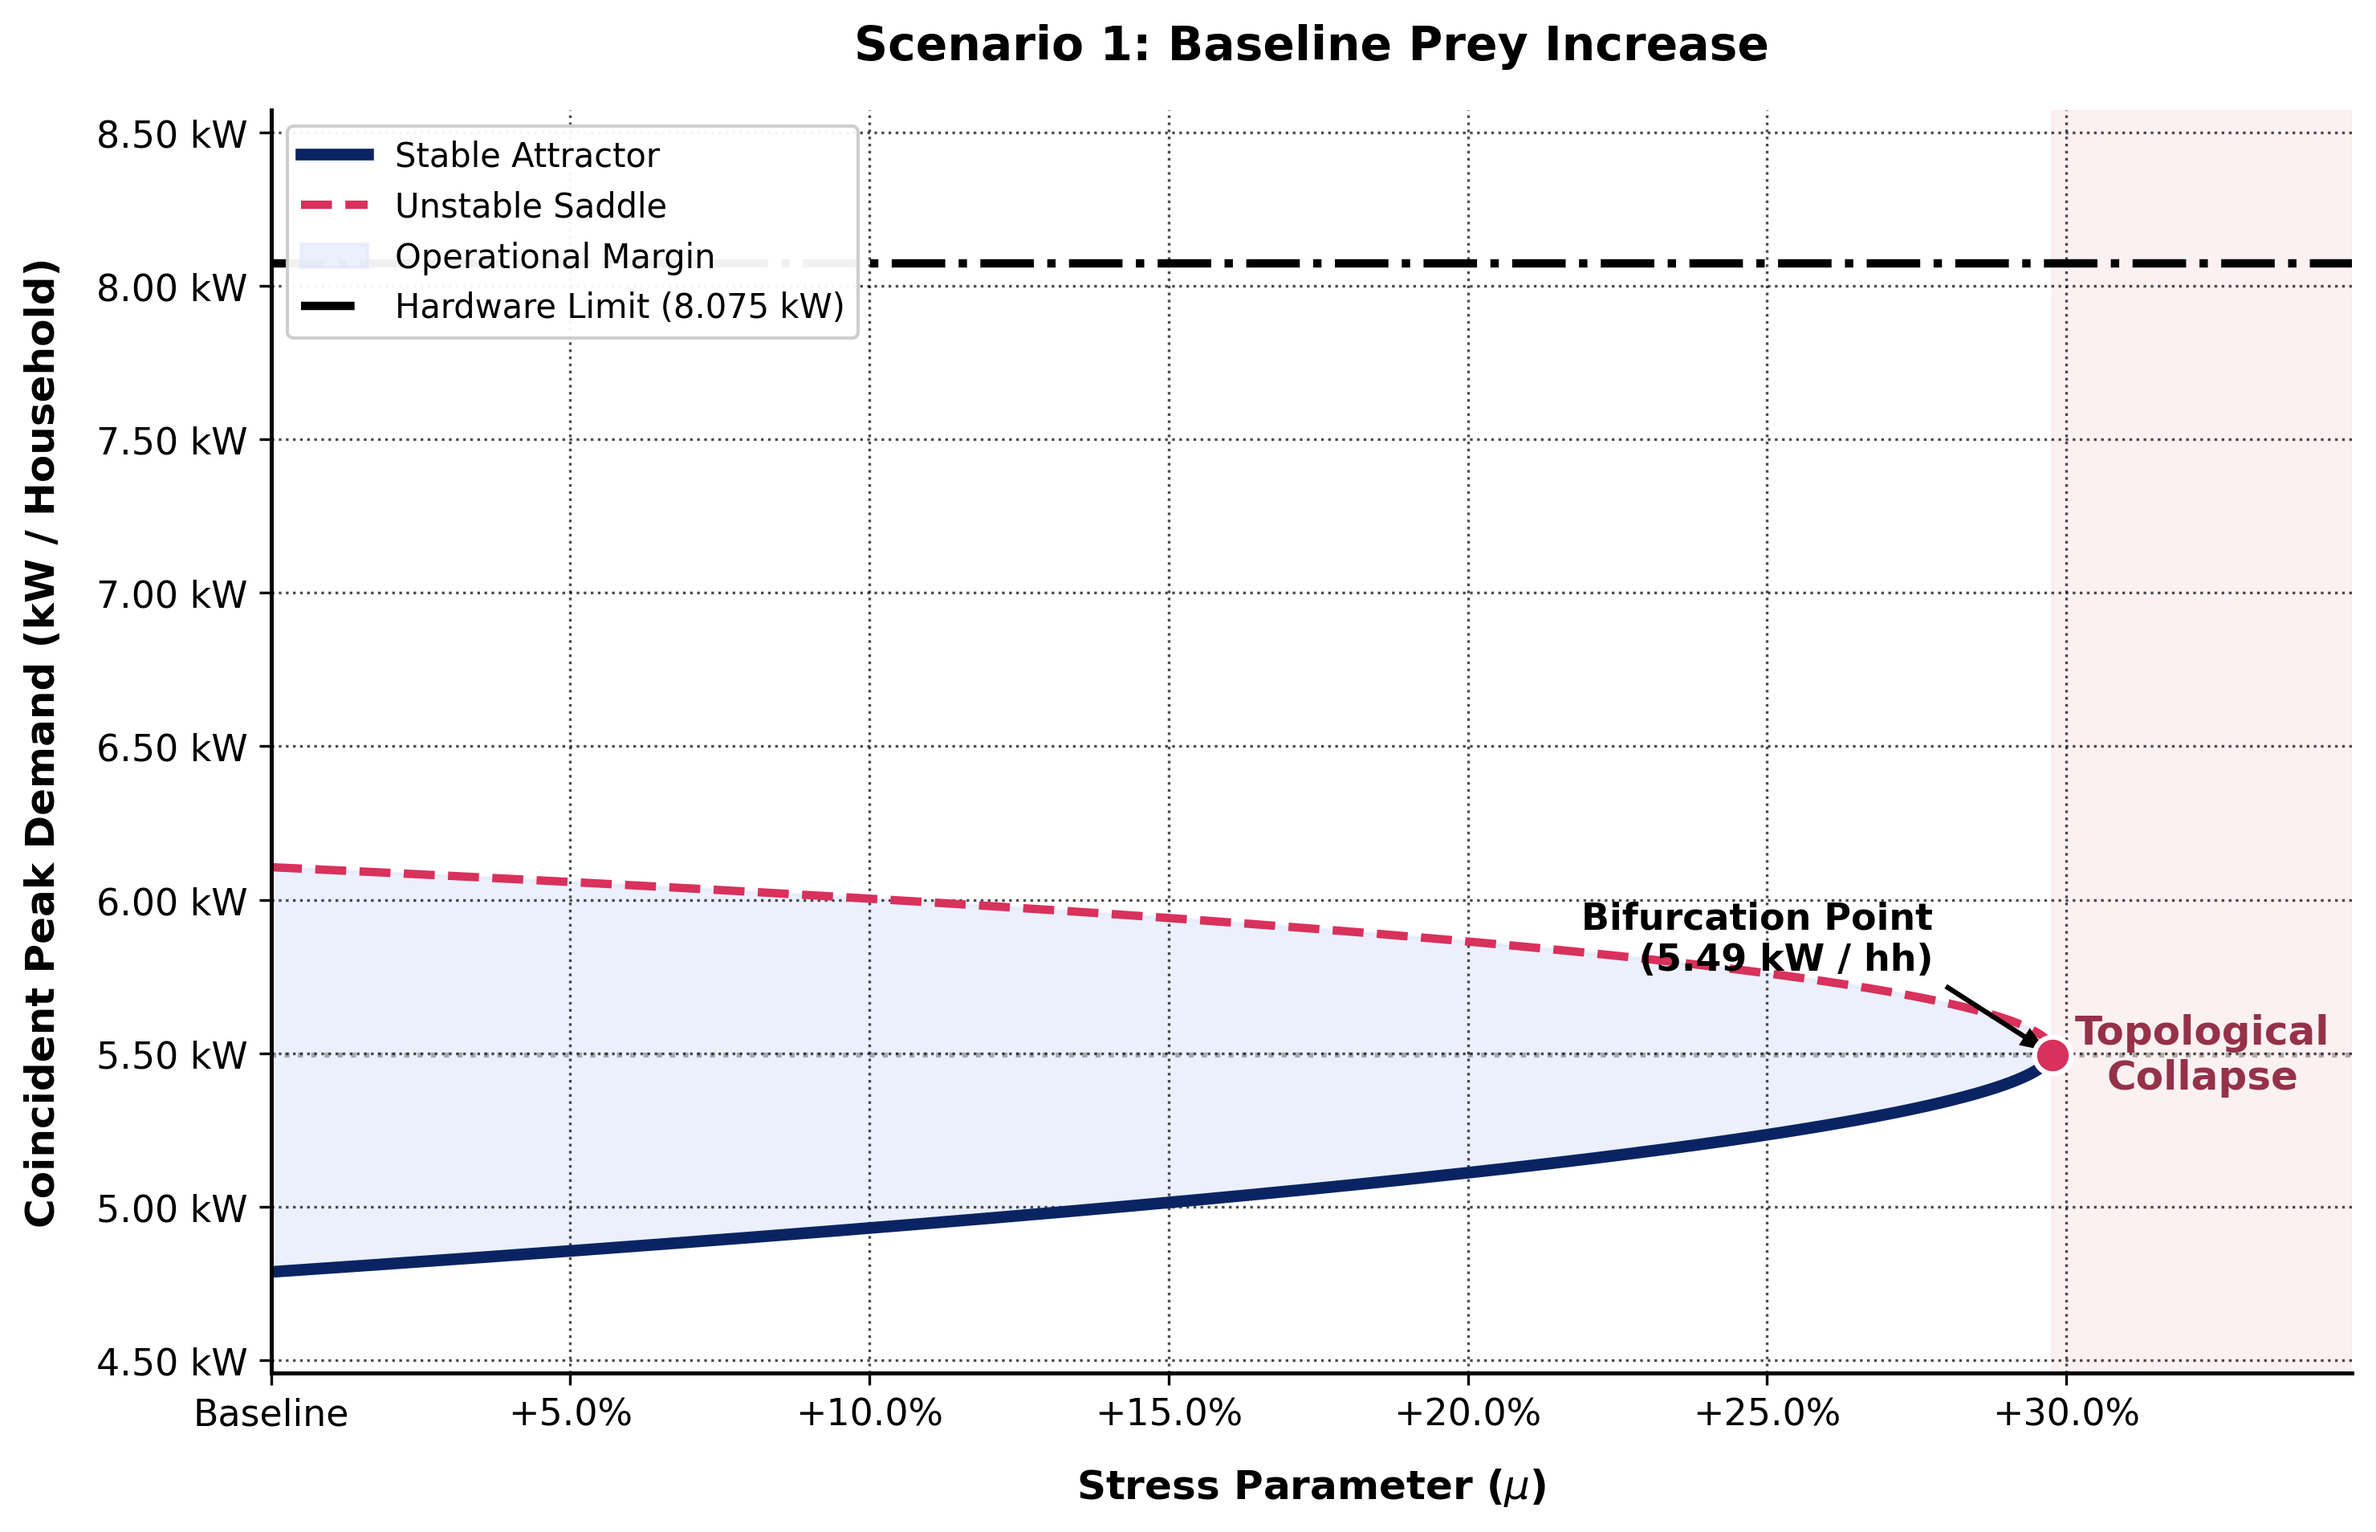
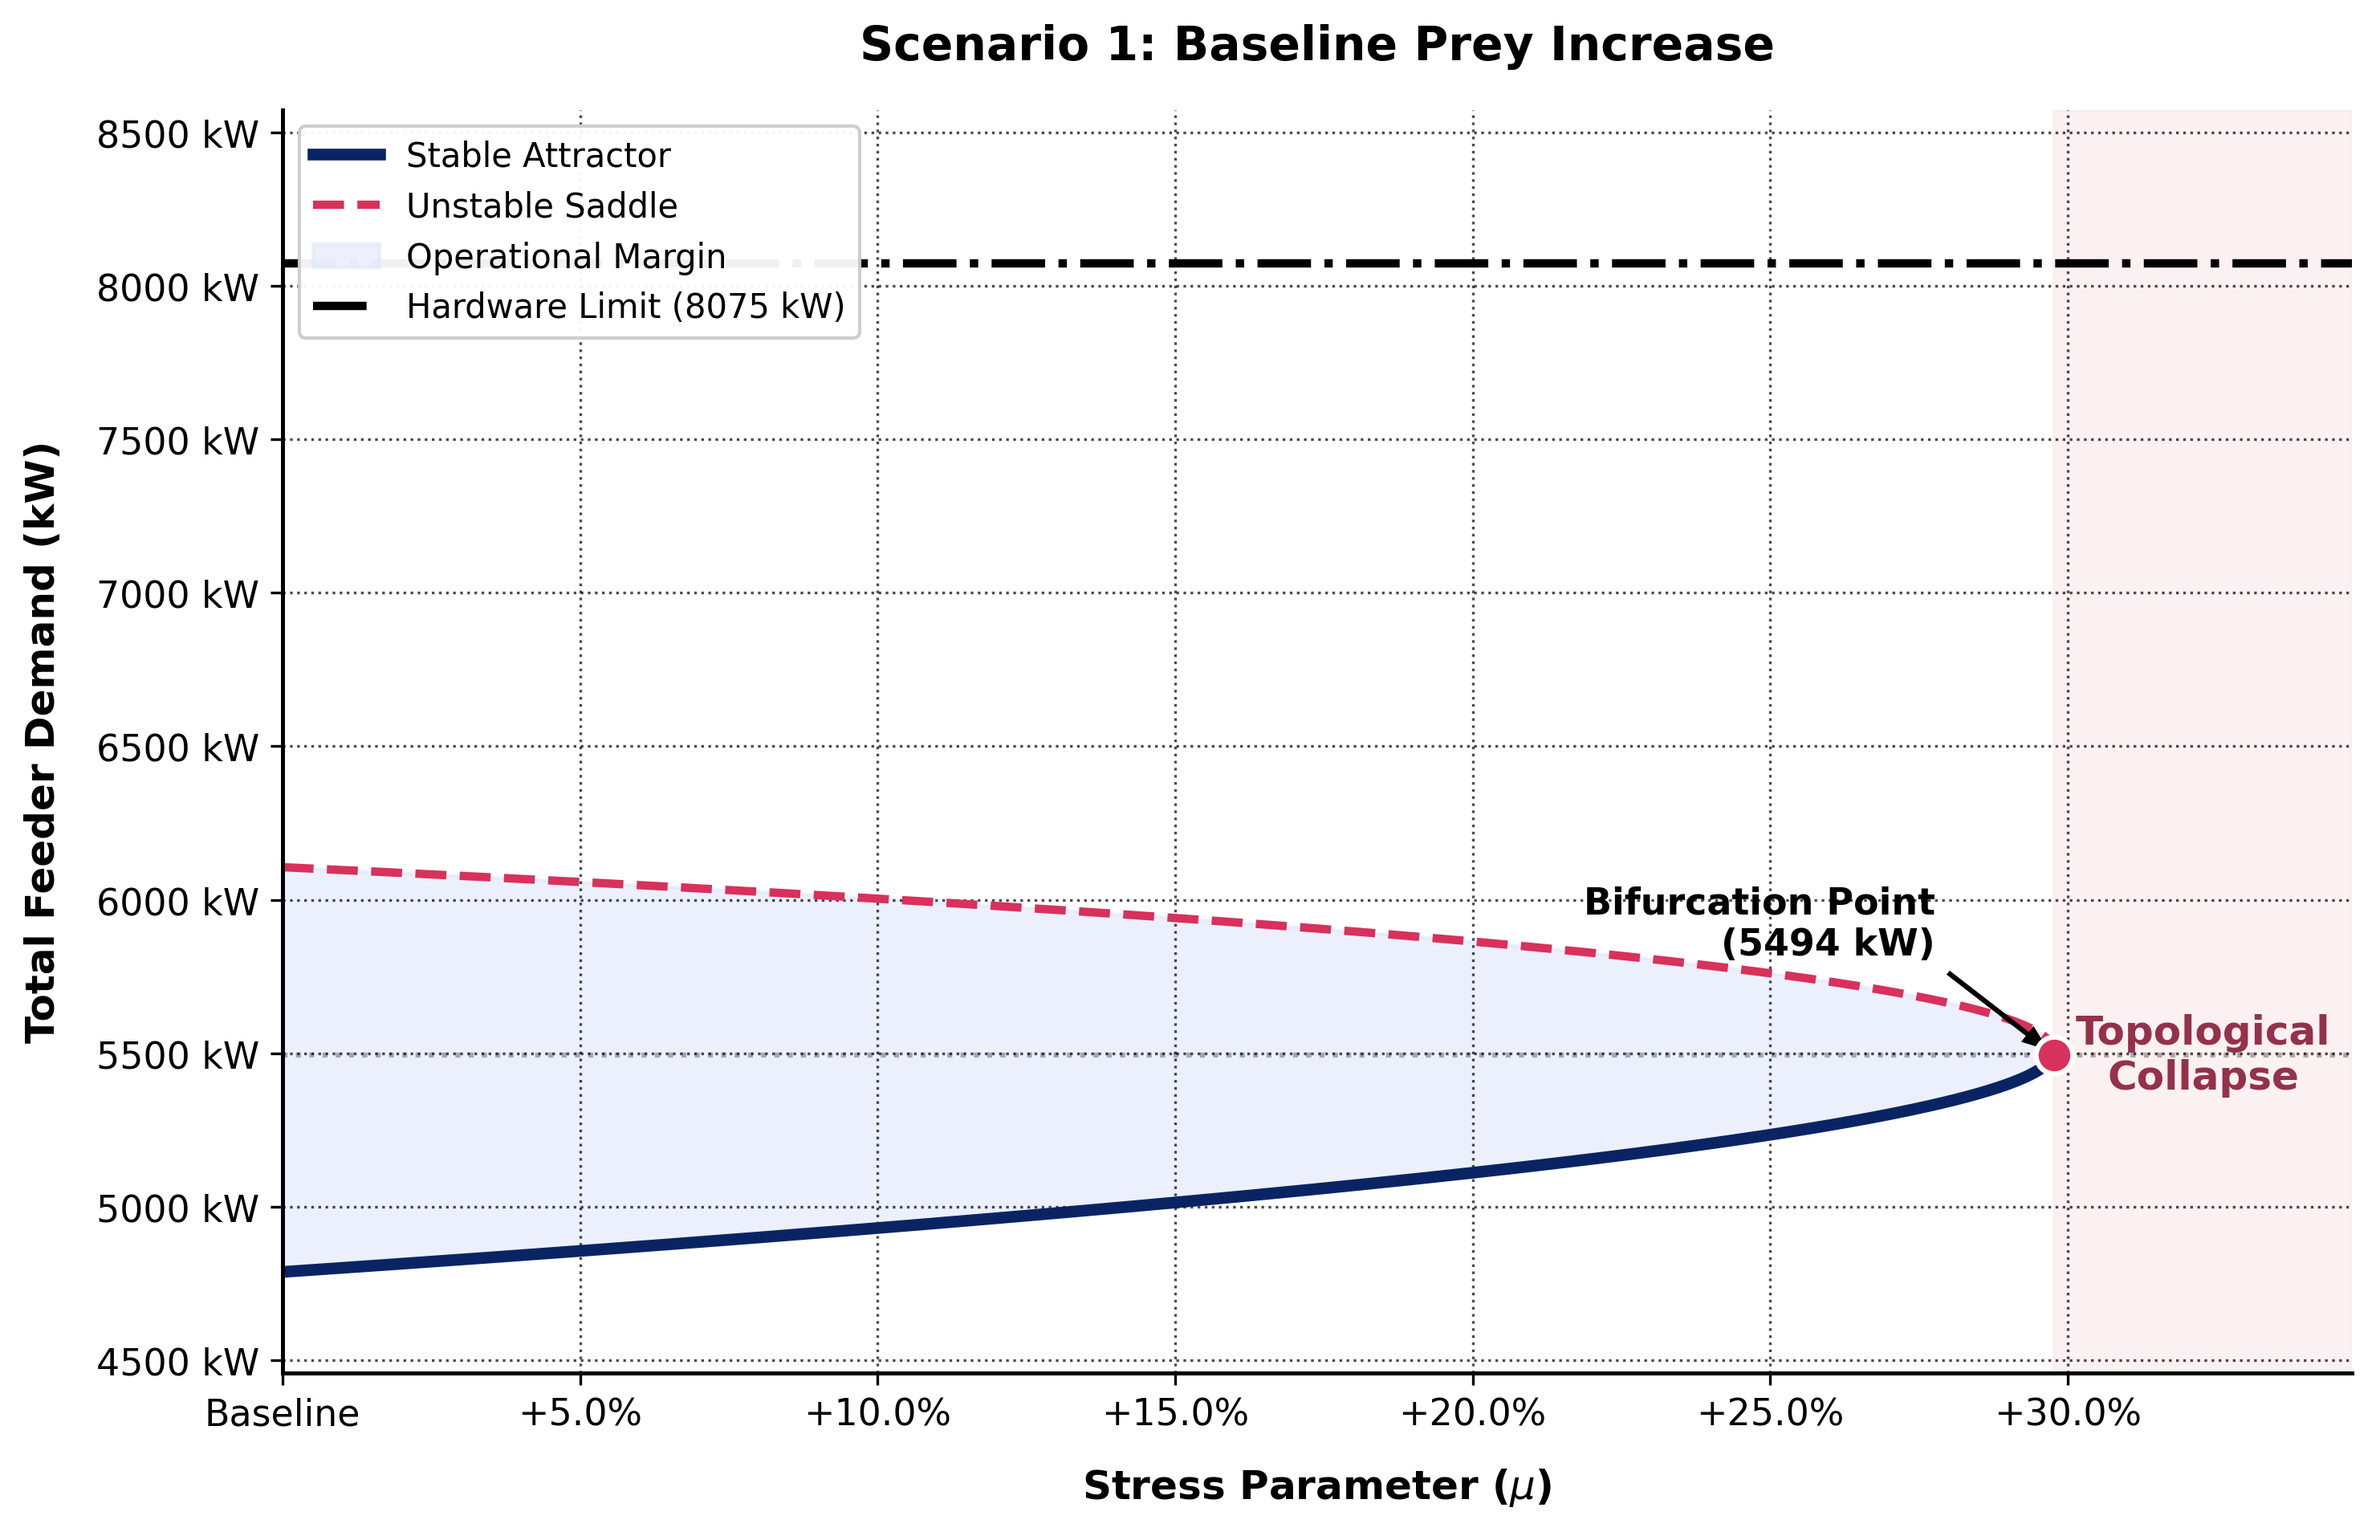
kW fix

diff --git a/8 - Bifurcation Analysis/21-bifurcation.py b/8 - Bifurcation Analysis/21-bifurcation.py
@@ -6,8 +6,7 @@ import warnings
 warnings.filterwarnings("ignore")
 
 TARGET_CONTEXT = "SUMMER WD"
-TRANSFORMER_LIMIT_KW = 8.075 
-
+TRANSFORMER_LIMIT_KW = 8075  
 
 with open("coefficients.json", 'r') as f:
     coeffs = json.load(f)[TARGET_CONTEXT]
@@ -16,19 +15,17 @@ A_BASE, B_BASE, C_BASE = coeffs["A"], coeffs["B"], coeffs["C"]
 raw_data = np.load("centroids_k2.npy")
 centroids = raw_data.T if raw_data.shape == (48, 2) else raw_data
 
-# Ensure Predator is the higher peak (converted to kW)
 if np.max(centroids[1]) > np.max(centroids[0]):
-    prey_centroid, predator_centroid = centroids[0]/1000.0, centroids[1]/1000.0
+    prey_centroid, predator_centroid = centroids[0], centroids[1]
 else:
-    prey_centroid, predator_centroid = centroids[1]/1000.0, centroids[0]/1000.0
+    prey_centroid, predator_centroid = centroids[1], centroids[0]
 
 def exact_peak_kw(y_star):
     x_star = 1.0 - y_star
     blended_profile = (x_star * prey_centroid) + (y_star * predator_centroid)
     return np.max(blended_profile)
 
-# Bifurctaion Sweep
-
+# Bifurcation Sweep
 mu_values = np.linspace(1.0, 1.50, 3000)
 
 def run_sweep(stress_target):
@@ -36,7 +33,6 @@ def run_sweep(stress_target):
     bifurcation_mu, bifurcation_kw = None, None
     
     for mu in mu_values:
-        # Apply stress to A or shrink C 
         A_current = A_BASE * mu if stress_target == 'A' else A_BASE
         C_current = C_BASE / mu if stress_target == 'C' else C_BASE
         
@@ -82,36 +78,33 @@ def create_bifurcation_plot(stable_history, unstable_history, b_mu, b_kw, title,
     ax.plot(mu_values, unstable_history, color=COLOR_UNSTABLE, linewidth=2.5, linestyle='--', label='Unstable Saddle')
     ax.fill_between(mu_values, stable_history, unstable_history, color=COLOR_FILL, alpha=0.6, label='Operational Margin')
     
-    # Hardware Limit Line
     ax.axhline(TRANSFORMER_LIMIT_KW, color='black', linestyle='-.', linewidth=2.5, label=f'Hardware Limit ({TRANSFORMER_LIMIT_KW} kW)')
 
-    # Dynamic X-Axis limit calculation
     x_max_limit = b_mu + 0.05 if b_mu else max(mu_values)
 
     if b_mu:
         ax.scatter([b_mu], [b_kw], color=COLOR_UNSTABLE, s=120, zorder=5, edgecolor='white', linewidth=1.5)
         ax.axhline(b_kw, color='black', linestyle=':', alpha=0.3, linewidth=1.5)
         
-
         ax.axvspan(b_mu, x_max_limit, color='#FAECEF', alpha=0.7)
       
         text_x_pos = b_mu + ((x_max_limit - b_mu) / 2)
         ax.text(text_x_pos, b_kw, 'Topological\nCollapse', 
                 ha='center', va='center', color='#8A1C36', fontweight='bold', alpha=0.9, fontsize=12)
         
-        ax.annotate(f'Bifurcation Point\n({b_kw:.2f} kW / hh)', 
+        ax.annotate(f'Bifurcation Point\n({b_kw:.0f} kW)', 
                      xy=(b_mu, b_kw), 
-                     xytext=(b_mu - 0.02, b_kw + 0.25),
+                     xytext=(b_mu - 0.02, b_kw + 300),
                      arrowprops=dict(facecolor='black', shrink=0.05, width=1.5, headwidth=6, headlength=8, edgecolor='none'),
                      ha='right', va='bottom', fontweight='bold', color='black', fontsize=11)
 
     ax.set_title(title, fontsize=14, fontweight='bold', pad=15)
     ax.set_xlabel(r"Stress Parameter ($\mu$)", fontsize=12, fontweight='bold', labelpad=10)
-    ax.set_ylabel("Coincident Peak Demand (kW / Household)", fontsize=12, fontweight='bold', labelpad=10)
+    ax.set_ylabel("Total Feeder Demand (kW)", fontsize=12, fontweight='bold', labelpad=10)
 
     def pct_formatter(x, pos): return "Baseline" if x == 1.0 else f"+{(x-1.0)*100:.1f}%"
     ax.xaxis.set_major_formatter(ticker.FuncFormatter(pct_formatter))
-    ax.yaxis.set_major_formatter(ticker.FormatStrFormatter('%.2f kW'))
+    ax.yaxis.set_major_formatter(ticker.FormatStrFormatter('%d kW'))
 
     ax.grid(True, linestyle=':', alpha=0.7, color='black')
     ax.spines['top'].set_visible(False)
@@ -126,7 +119,7 @@ def create_bifurcation_plot(stable_history, unstable_history, b_mu, b_kw, title,
     padding = (max_kw - min_kw) * 0.25
     
     ax.set_xlim(1.0, x_max_limit)
-    ax.set_ylim(min_kw - padding, max(max_kw + padding, TRANSFORMER_LIMIT_KW + 0.5))
+    ax.set_ylim(min_kw - padding, max(max_kw + padding, TRANSFORMER_LIMIT_KW + 500))
 
     plt.tight_layout()
     plt.savefig(filename, dpi=300, bbox_inches='tight')

diff --git a/7 - Peak Demand/20-demand.py b/7 - Peak Demand/20-demand.py
@@ -4,22 +4,21 @@ import json
 
 FILE_CENTROIDS = "centroids_k2.npy" 
 COEFFS_FILE = "coefficients.json"
-TRANSFORMER_LIMIT_KW = 8.075  
+TRANSFORMER_LIMIT_KW = 8075  
 
 # Load PySINDy coefficients
 with open(COEFFS_FILE, 'r') as f:
     contexts = json.load(f)
 
-
-# K-Means centroids
+# K-Means centroids (Aggregated Feeder Data)
 raw_data = np.load(FILE_CENTROIDS)
 centroids = raw_data.T if raw_data.shape == (48, 2) else raw_data
 
-
+# Removed the / 1000.0 division so it stays in total feeder scale
 if np.max(centroids[0]) > np.max(centroids[1]):
-    predator_centroid, prey_centroid = centroids[0] / 1000.0, centroids[1] / 1000.0
+    predator_centroid, prey_centroid = centroids[0], centroids[1]
 else:
-    prey_centroid, predator_centroid = centroids[0] / 1000.0, centroids[1] / 1000.0
+    prey_centroid, predator_centroid = centroids[0], centroids[1]
 
 # Process each extracted context
 for ctx_name, coeffs in contexts.items():
@@ -45,34 +44,34 @@ for ctx_name, coeffs in contexts.items():
     stable_node = {"prey": valid_roots[0], "predator": 1.0 - valid_roots[0]}
     unstable_node = {"prey": valid_roots[1], "predator": 1.0 - valid_roots[1]} if len(valid_roots) == 2 else None
 
-    # Reconstruct physical peak demand profiles
+    # Reconstruct physical peak demand profiles for the whole feeder
     stable_profile = (stable_node["prey"] * prey_centroid) + (stable_node["predator"] * predator_centroid)
-    print(f"Stable Peak Demand:   {np.max(stable_profile):.3f} kW/hh")
+    print(f"Stable Peak Demand:   {np.max(stable_profile):.0f} kW")
 
     delta_margin = 0
     if unstable_node:
         unstable_profile = (unstable_node["prey"] * prey_centroid) + (unstable_node["predator"] * predator_centroid)
         delta_margin = np.max(unstable_profile) - np.max(stable_profile)
-        print(f"Unstable Peak Demand: {np.max(unstable_profile):.3f} kW/hh")
-        print(f"Delta Margin:         {delta_margin:.3f} kW headroom")
+        print(f"Unstable Peak Demand: {np.max(unstable_profile):.0f} kW")
+        print(f"Delta Margin:         {delta_margin:.0f} kW headroom")
 
-    # Setup plotting limits and labels for a single, wide plot
+    # Setup plotting limits and labels
     plt.rcParams.update({'font.size': 11, 'font.family': 'sans-serif'})
-    fig, ax = plt.subplots(figsize=(10, 6)) # Changed to a single axis, optimized width
+    fig, ax = plt.subplots(figsize=(10, 6))
     hours = np.linspace(0, 24, 48, endpoint=False)
     ticks = range(0, 25, 4)
     tick_labels = [f"{h:02d}:00" for h in ticks]
 
-    # Plot Equilibrium Forecasts directly onto the main axis
+    # Plot Equilibrium Forecasts
     ax.plot(hours, stable_profile, color='#264653', linewidth=4, label=f'Stable Attractor (y={stable_node["predator"]*100:.1f}%)')
 
     if unstable_node:
         ax.plot(hours, unstable_profile, color='darkred', linewidth=3, linestyle='--', label=f'Tipping Point (y={unstable_node["predator"]*100:.1f}%)')
-        ax.fill_between(hours, stable_profile, unstable_profile, color='red', alpha=0.1, label=f'Fragility Margin ({delta_margin:.2f} kW)')
+        ax.fill_between(hours, stable_profile, unstable_profile, color='red', alpha=0.1, label=f'Fragility Margin ({delta_margin:.0f} kW)')
 
-    ax.set_title(f"Physical Demand Profile ({ctx_name})", fontsize=14, fontweight='bold')
+    ax.set_title(f"Feeder Peak Demand Profile ({ctx_name})", fontsize=14, fontweight='bold')
     ax.set_xlabel("Hour of the Day", fontsize=12, fontweight='bold')
-    ax.set_ylabel("System Demand (kW)", fontsize=12, fontweight='bold')
+    ax.set_ylabel("Total Feeder Demand (kW)", fontsize=12, fontweight='bold')
     ax.set_xticks(ticks)
     ax.set_xticklabels(tick_labels)
     ax.grid(True, linestyle=':', alpha=0.7)
